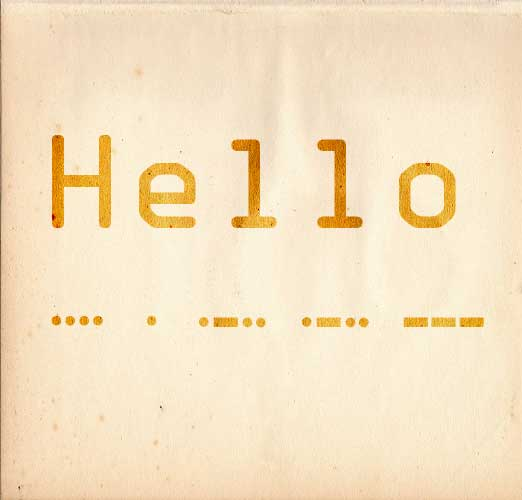
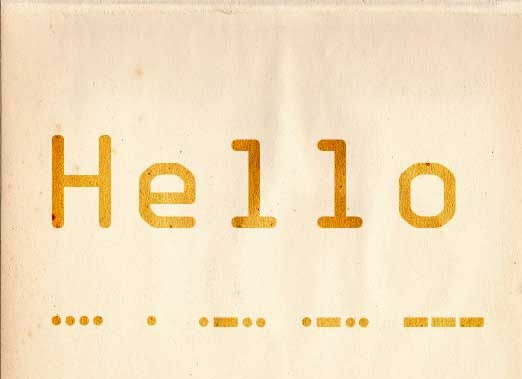
edited language img

diff --git a/public/language/index.html b/public/language/index.html
@@ -48,8 +48,8 @@
             </ul>
         </nav>
     </div>
-    <img src="../img-src/Language.jpg" alt="Image of people together" style="width: 100%; margin-top: -400px;">
-    <div style="margin-bottom: 100px; text-align: center; width: 100%;">
+    <img src="../img-src/Language.jpg" alt="Image of people together" style="width: 100%; margin-top: -200px;">
+    <div style="margin-bottom: 100px; text-align: center; width: 1000px; margin: 0 auto;">
         <h1 style="text-decoration: underline;">Language</h1>
         <p style="margin-top: 25px;">The history of our language begins with the <a href="../about/" style="text-decoration: none;" title="Visit About Page">founding principles.</a></p>
         <p>The founders of Alpha Culture wanted anyone from anywhere to be able to come together and bond despite any barriers such as language.</p>
@@ -58,7 +58,7 @@
             <a href="../about/" title="Visit about page" style="text-decoration: none;">What can we take here, bring to another country, and still convey and idea that will be comprehensible?</a>
         </p>
         <p>After extensive debate and thinking, the founders came to the conclusion of math, but what makes math so universal: NUMBERS.</p>
-        <p>Alpha Culture was born on that day and the language of Alpha Culture became morse code.</p>
+        <p style="margin-bottom: 100px;">Alpha Culture was born on that day and the language of Alpha Culture became morse code.</p>
     </div>
 
 </body>
